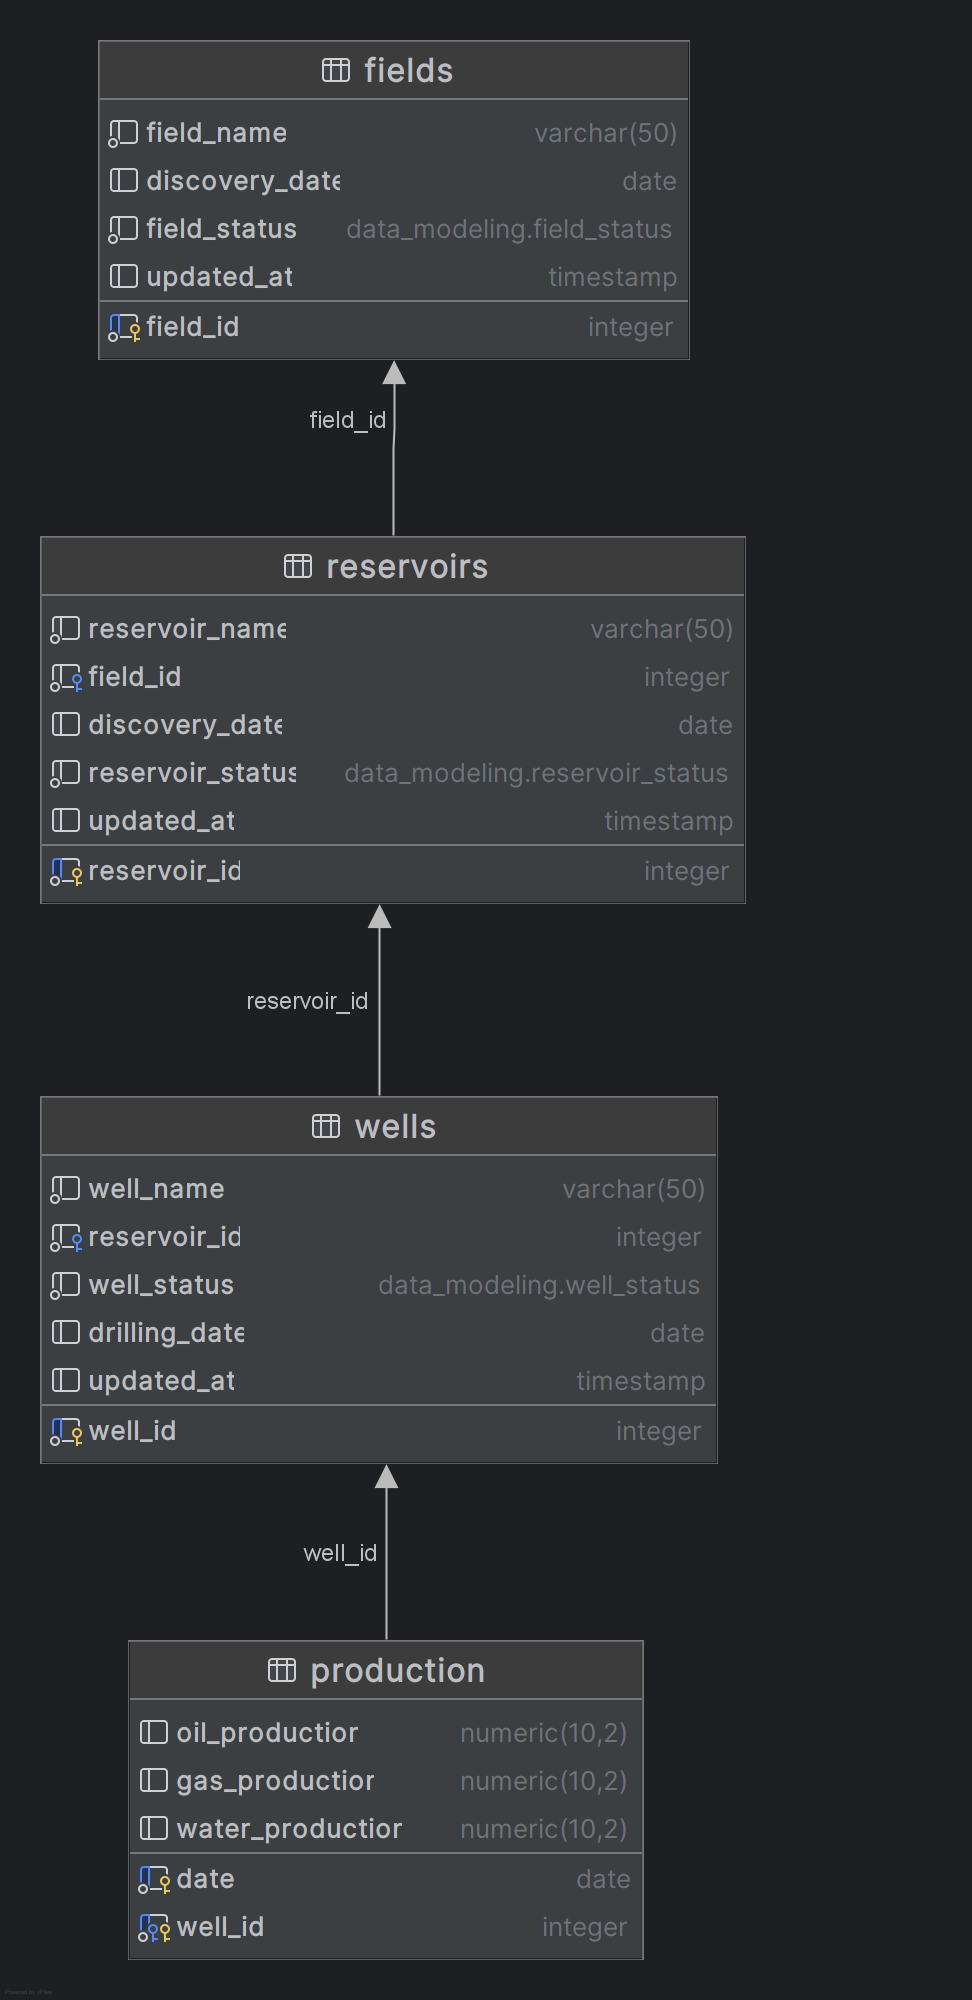
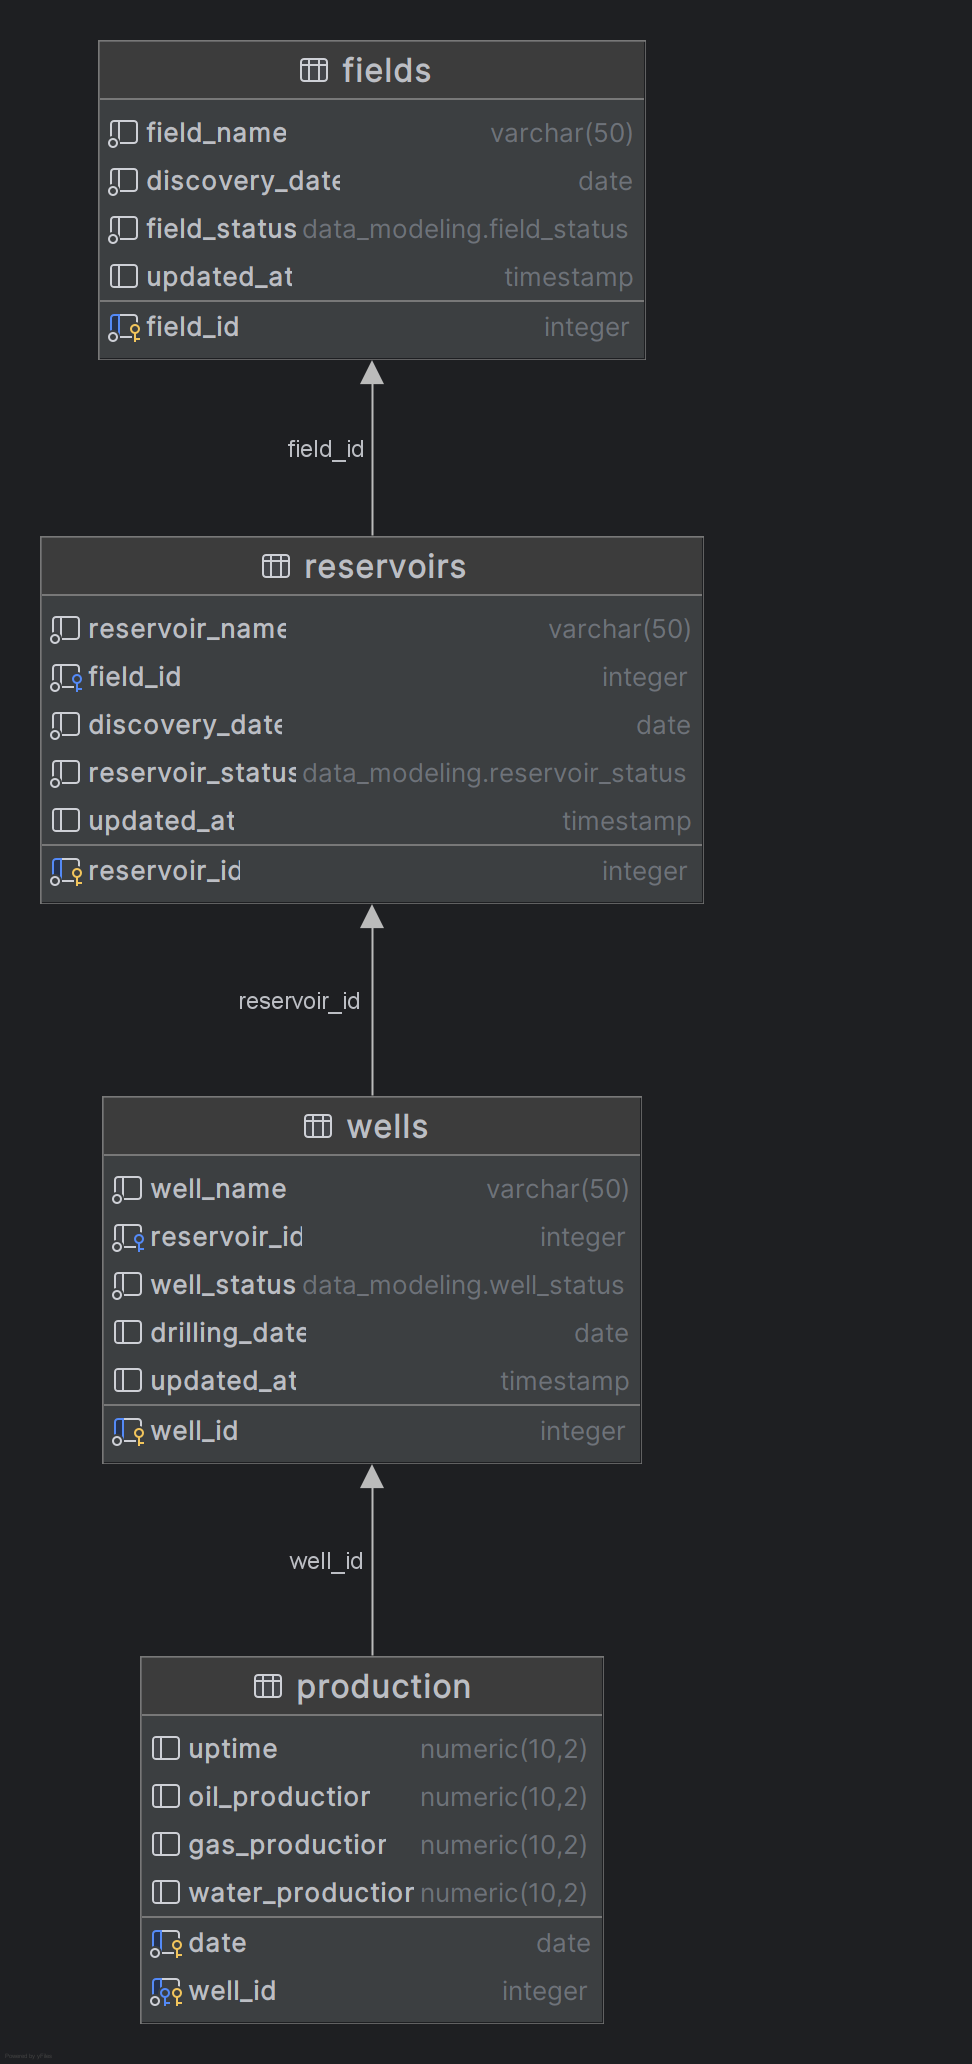
add uptime as a column in production table and adjust downstream models

Changed region(s): [[0.0309, 0.0, 0.7716, 0.992]]

diff --git a/end-to-end modelling; oil and gas case study/README.md b/end-to-end modelling; oil and gas case study/README.md
@@ -26,7 +26,7 @@ The relational schema lives in `oltp/ddl.sql`. Four tables:
 - **Fields**: the field itself and its lifecycle status
 - **Reservoirs**: belong to a field
 - **Wells**: belong to a reservoir
-- **Production**: daily oil / gas / water volumes by well
+- **Production**: daily oil / gas / water volumes and uptime (hours) by well
 
 Enums cover field, reservoir, and well statuses so the source stays constrained.
 
@@ -47,8 +47,8 @@ The dbt project in `olap/` reads from BigQuery (`oil_and_gas_src`) and builds ou
 | Model | Role |
 | --- | --- |
 | `dim_wells` | SCD Type 2 well dimension (with reservoir and field attributes baked in) |
-| `dim_dates` | Calendar spine from 2019–2040 via `dbt_utils.date_spine` |
-| `fct_production` | Daily production facts, joined to the well version that was valid on that day |
+| `dim_dates` | Calendar spine from 2019–2040 via `dbt_utils.date_spine` (standalone; BI tools join on `production_date_key`) |
+| `fct_production` | Daily production facts with uptime, joined to the well version that was valid on that day |
 
 Point-in-time joins matter here: production on a given date should attach to the well status as it was then, not whatever it is today.
 
